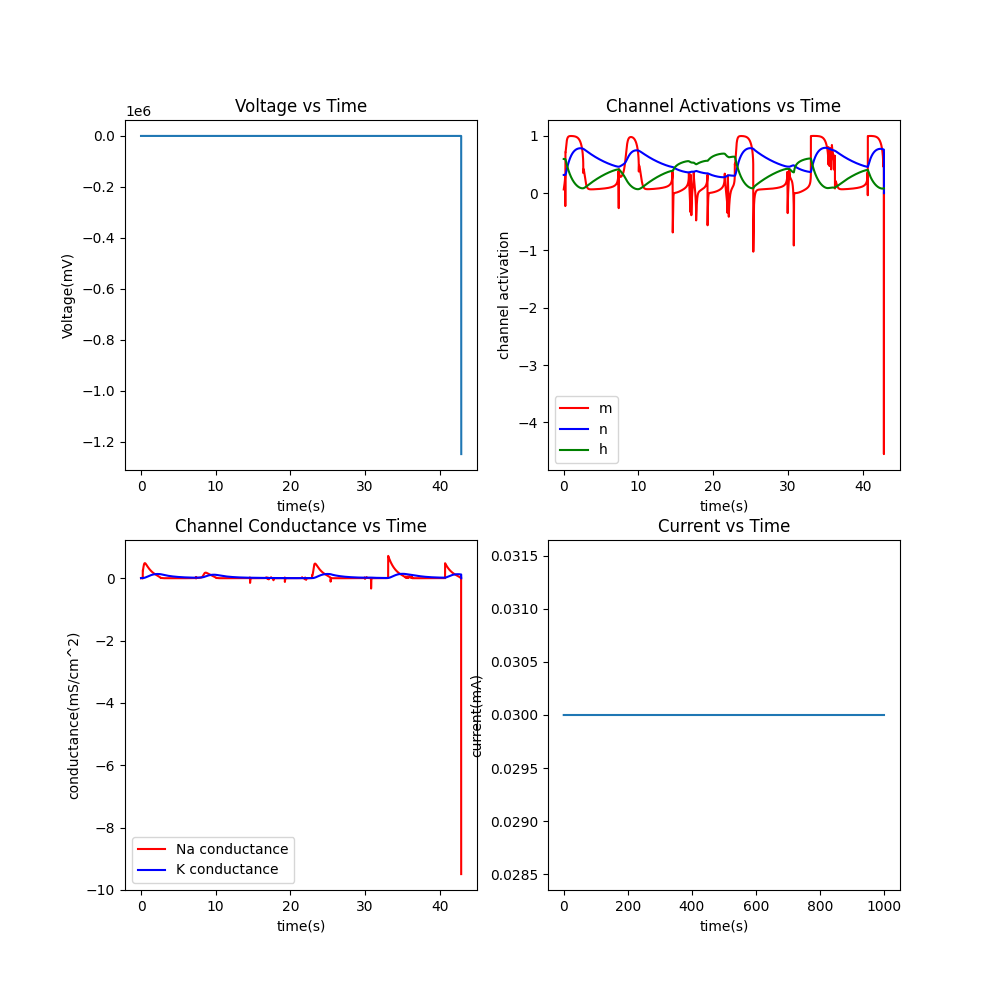
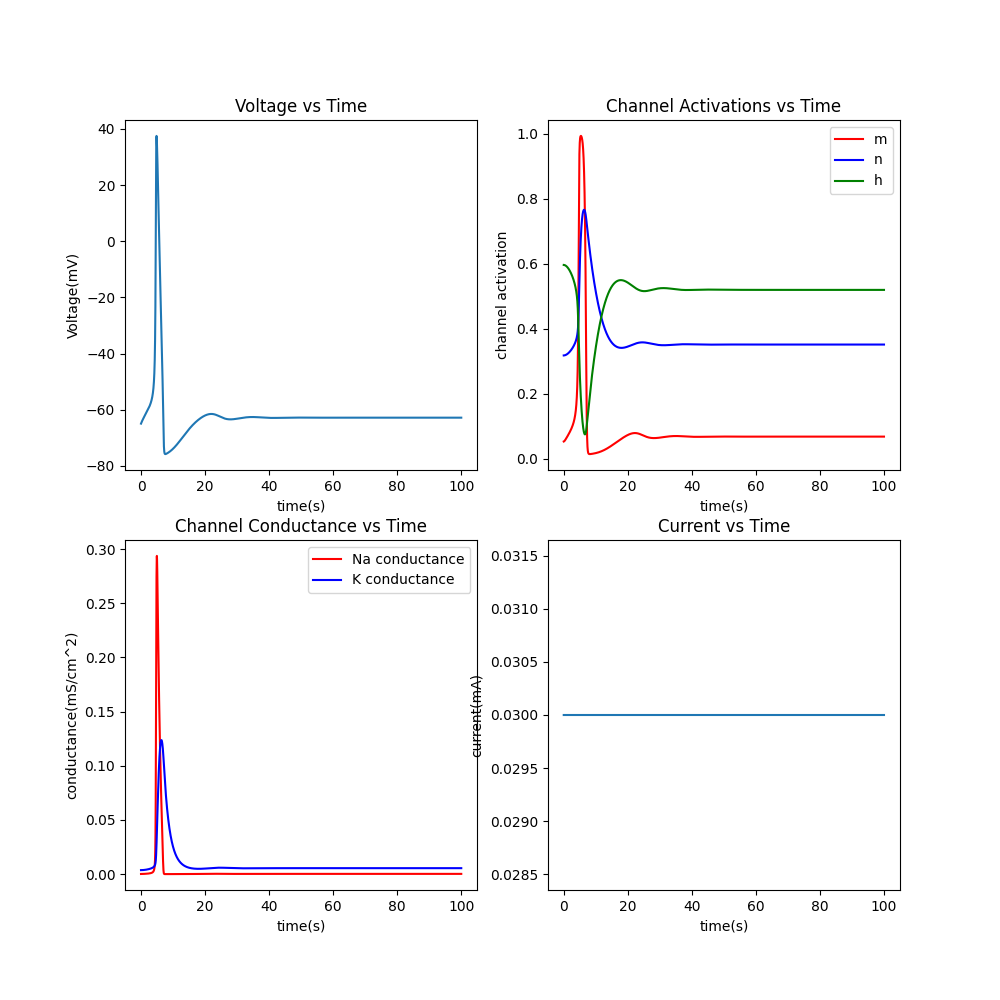
commit freq plot functional code testing to be done

diff --git a/src/model.py b/src/model.py
@@ -18,15 +18,36 @@ class HHModel:
         self.t = np.arange(self.niter)*dt
         self.m_hist = np.zeros(self.niter)
         self.m = 0.0530
-        self.gNa_hist = np.zeros(self.niter, dtype = dtype)
-        self.gK_hist = np.zeros(self.niter, dtype= dtype)
-        self.gTot_hist = np.zeros(self.niter, dtype= dtype)
-        self.v_hist = np.zeros(self.niter, dtype= dtype)
+        self.gNa_hist = np.zeros(self.niter)
+        self.gK_hist = np.zeros(self.niter)
+        self.gTot_hist = np.zeros(self.niter)
+        self.v_hist = np.zeros(self.niter)
         self.v = -64.9964
-        self.h_hist = np.zeros(self.niter, dtype= dtype)
+        self.h_hist = np.zeros(self.niter)
         self.h = 0.5960
-        self.n_hist = np.zeros(self.niter, dtype= dtype)
+        self.n_hist = np.zeros(self.niter)
         self.n = 0.3177
+
+    def reset(self):
+        self.gK_max = 0.36
+        self.gNa_max = 1.20
+        self.vK = -77 
+        self.vNa = 50
+        self.gL = 0.003
+        self.vL = -54.387
+        self.Cm = 0.01
+        self.t = np.arange(self.niter)*self.dt
+        self.m_hist = np.zeros(self.niter)
+        self.m = 0.0530
+        self.gNa_hist = np.zeros(self.niter)
+        self.gK_hist = np.zeros(self.niter)
+        self.gTot_hist = np.zeros(self.niter)
+        self.v_hist = np.zeros(self.niter)
+        self.v = -64.9964
+        self.h_hist = np.zeros(self.niter)
+        self.h = 0.5960
+        self.n_hist = np.zeros(self.niter)
+        self.n = 0.3177 
 
     def gNa(self):
         return self.gNa_max*(self.m**3)*self.h
@@ -46,51 +67,51 @@ class HHModel:
     def _v(self, it):
         v_inf = self.v_inf(it)
         tauv = self.tauv(it)
-        return v_inf + (self.v - v_inf)*np.exp(-self.dt/tauv, dtype = dtype)
+        return v_inf + (self.v - v_inf)*np.exp(-self.dt/tauv)
     
     def alpha_m(self):
-        return 0.1*(self.v + 40)/(1-np.exp(-(self.v + 40)/10, dtype= dtype))
+        return 0.1*(self.v + 40)/(1-np.exp(-(self.v + 40)/10))
 
     def beta_m(self):
-        return 4*np.exp(-0.0556*(self.v + 65), dtype= dtype)
+        return 4*np.exp(-0.0556*(self.v + 65))
 
     def alpha_n(self):
-        return 0.01*(self.v+55)/(1-np.exp(-(self.v+55)/10, dtype= dtype))
+        return 0.01*(self.v+55)/(1-np.exp(-(self.v+55)/10))
 
     def beta_n(self):
-        return 0.125*np.exp(-(self.v+65)/80, dtype= dtype)
+        return 0.125*np.exp(-(self.v+65)/80)
 
     def alpha_h(self):
-        return 0.07*np.exp(-0.05*(self.v+65), dtype= dtype)
+        return 0.07*np.exp(-0.05*(self.v+65))
 
     def beta_h(self):
-        return 1/(1+np.exp(-0.1*(self.v+35), dtype= dtype))
+        return 1/(1+np.exp(-0.1*(self.v+35)))
 
     def _m(self):
         alpha_m = self.alpha_m()
         beta_m = self.beta_m()
         taum = 1/(alpha_m + beta_m)
         m_inf = alpha_m*taum
-        return m_inf + (self.m - m_inf)*np.exp(-self.dt/taum, dtype= dtype)
+        return m_inf + (self.m - m_inf)*np.exp(-self.dt/taum)
 
     def _h(self):
         alpha_h = self.alpha_h()
         beta_h = self.beta_h()
         tauh = 1/(alpha_h + beta_h)
         h_inf = alpha_h*tauh
-        return h_inf + (self.h - h_inf)*np.exp(-self.dt/tauh, dtype= dtype)
+        return h_inf + (self.h - h_inf)*np.exp(-self.dt/tauh)
 
     def _n(self):
         alpha_n = self.alpha_n()
         beta_n = self.beta_n()
         taun = 1/(alpha_n + beta_n)
         n_inf = alpha_n*taun
-        return n_inf + (self.n - n_inf)*np.exp(-self.dt/taun, dtype= dtype)
+        return n_inf + (self.n - n_inf)*np.exp(-self.dt/taun)
 
     def __call__(self, I_inp, I_pat):
         self.I_inp = I_inp
         self.I = I_pat*self.I_inp
-        for it in tqdm(range(self.niter)):
+        for it in range(self.niter):
             self.gNa_hist[it] = self.gNa()
             self.gK_hist[it] = self.gK()
             self.gTot_hist[it] = self.g_total(it)
@@ -127,4 +148,6 @@ class HHModel:
         axes[1][1].set_ylabel('current(mA)')
         axes[1][1].set_title('Current vs Time')
         fig.savefig(figname)
-        plt.show()
+        plt.clf()
+        plt.close('all')
+        #plt.show()

diff --git a/main.py b/main.py
@@ -1,12 +1,64 @@
 from src.model import HHModel
 import numpy as np
 import matplotlib.pyplot as plt
-
-
-I_inp = 0.1
+import scipy.signal as sig
+from tqdm import tqdm
+"""
+I_inp = 0.002
 dt = 0.01
 niter = 10000
 I_pat = np.ones(niter)
 hh = HHModel(dt, niter)
 hh(I_inp, I_pat)
 hh.plot('images/simulation_Iinp{inp}_constant.png'.format(inp = I_inp))
+"""
+def find_freq( v_arr, niter, dt, div):
+    peaks, _ = sig.find_peaks(v_arr)
+    spikes = [0]
+    pos = 0
+    T = niter*div
+    window = T
+    for index in peaks:
+        if(v_arr[index] > 0 and index < window):
+            spikes[pos] += 1
+        elif window < index:
+            window += T
+            pos += 1
+            spikes.append(0)
+            if(v_arr[index] > 0):
+                spikes[pos] += 1
+    #print(spikes)
+    count = 0
+    for num in spikes:
+        count += num
+    count = count/len(spikes)
+    spike_freq = 0
+    if count != 0: 
+        spike_freq = count/(T*dt)
+    return spike_freq
+
+
+div = 0.1
+
+dt = 0.01
+niter = 10000
+hh = HHModel(dt, niter)
+spike_freqs = []
+curr = []
+for i in tqdm(range(400)):
+    I_inp = i*0.003
+    I_pat = np.ones(niter)
+    hh = HHModel(dt, niter)
+    hh(I_inp, I_pat)
+    hh.plot('images/simulation_Iinp{inp}_constant.png'.format(inp = I_inp))
+    hh.reset()
+    curr.append(I_inp)
+    spike_freqs.append(find_freq(hh.v_hist, niter, dt, div))
+
+fig, axes = plt.subplots(1, 1)
+axes.plot(curr, spike_freqs)
+axes.set_xlabel('current')
+axes.set_ylabel('spike freq')
+axes.set_title('Current vs Spike Frequency')
+fig.savefig('freq_plot.png')
+plt.show()
